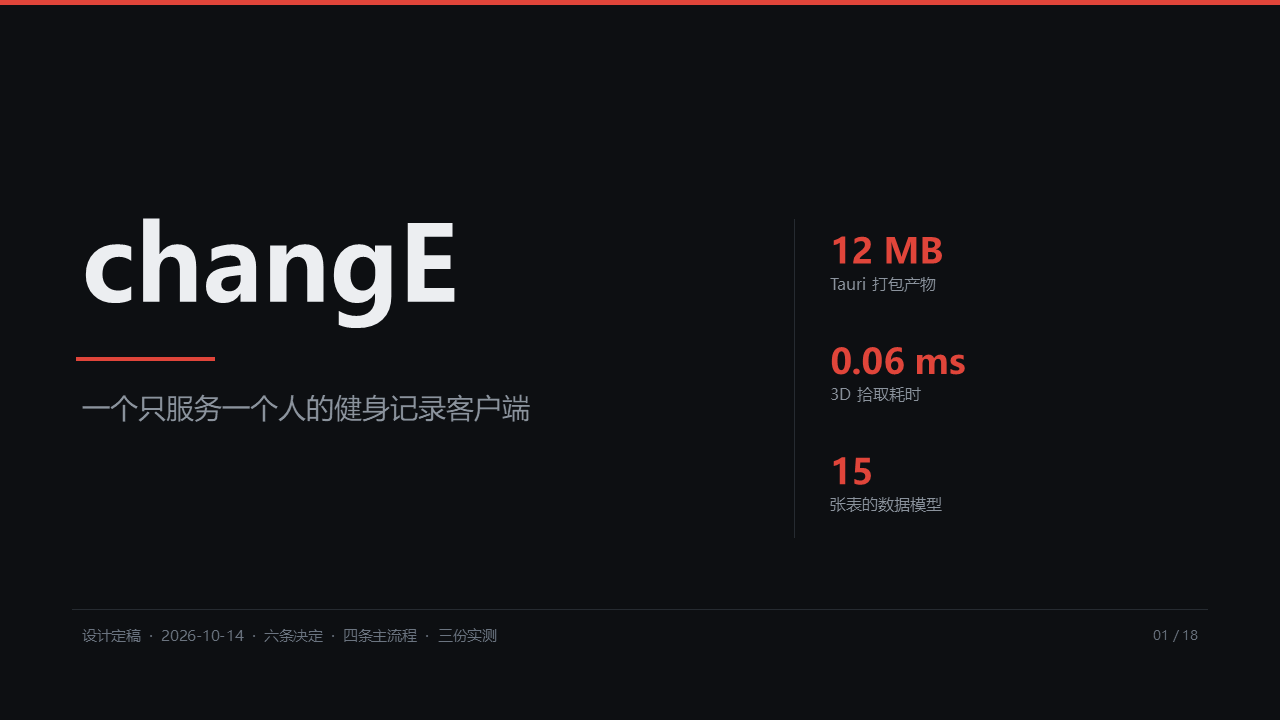
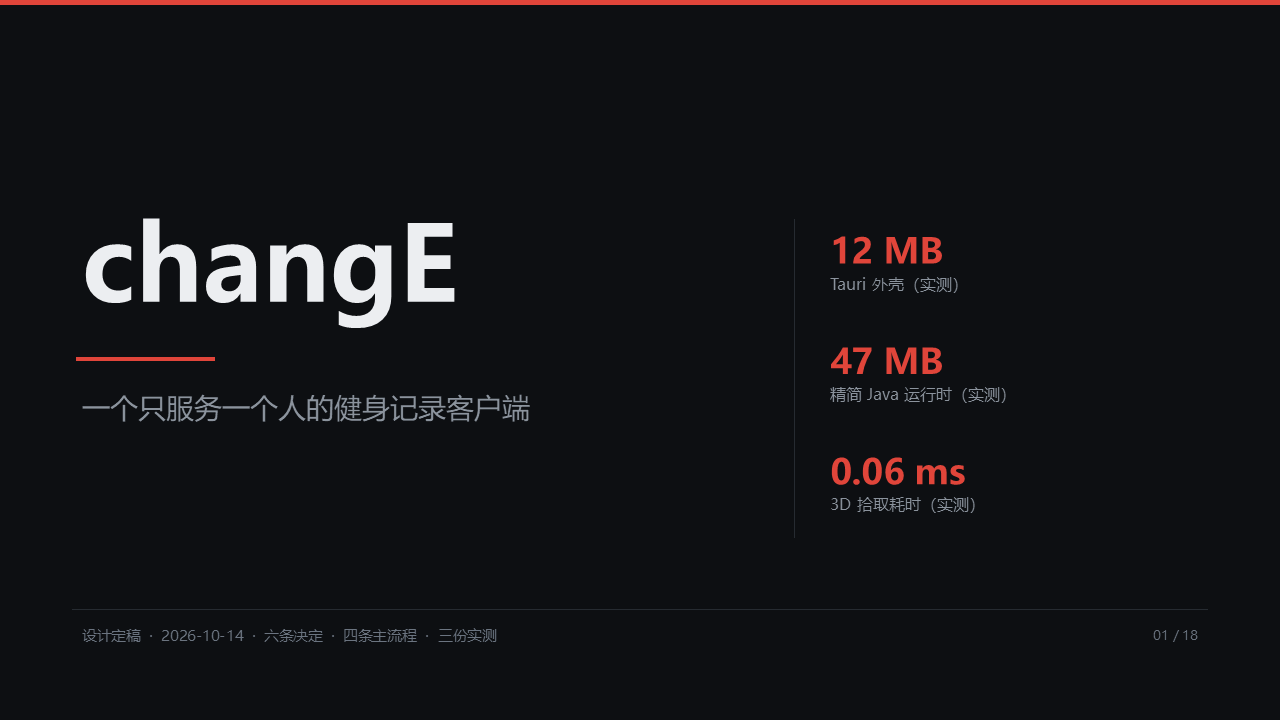
spec+deck: 记录「单用户可分发」决定，并更正安装包体积
用户决定：仍做只服务一个人的客户端，但要能发给朋友用，
不能只跑在自己电脑上。这与「多用户」是两回事——
每人跑自己的一份、各存各的数据，不需要账号与服务端。

spec 新增「分发形态」一节，列出五个连带影响：
1. 必须自带 Java 运行时（实测精简 JRE 47.4 MB）
2. 不得把模型 API Key 打进安装包
3. 数据目录不能写死
4. WebView2 在 Win10 上需兜底
5. 中国食物成分表转录版不可分发，须排除

并更正一个此前反复引用的数字：12 MB 只是 Tauri 外壳，
完整安装包预计 100-130 MB。风险清单增至 7 条。

deck 同步修订（v3）：封面数字全部改实测值、p16 拆开体积、
p17 加「朋友的电脑没有 JDK」并把末步改为「打包分发」。

Changed region(s): [[0.625, 0.4583, 0.7812, 0.5806], [0.625, 0.6111, 0.75, 0.7333], [0.6875, 0.3667, 0.75, 0.4278]]

diff --git a/ppt_tasks/change-design-deck/build.py b/ppt_tasks/change-design-deck/build.py
@@ -114,11 +114,11 @@ put(s, ML, 2.05, 11.0, 1.5, "changE", size=78, bold=True)
 rect(s, ML + 0.04, 3.72, 1.45, 0.045, C["accent"])
 put(s, ML, 4.02, 10.5, 0.6, "一个只服务一个人的健身记录客户端", size=21, color=C["muted"])
 
-# 右侧三条关键数字，给封面一个支点
+# 右侧三条关键数字，给封面一个支点（全部为实测值，不带估算）
 bx = 8.55
-for i, (num, lab) in enumerate([("12 MB", "Tauri 打包产物"),
-                                ("0.06 ms", "3D 拾取耗时"),
-                                ("15", "张表的数据模型")]):
+for i, (num, lab) in enumerate([("12 MB", "Tauri 外壳（实测）"),
+                                ("47 MB", "精简 Java 运行时（实测）"),
+                                ("0.06 ms", "3D 拾取耗时（实测）")]):
     yy = 2.35 + i * 1.15
     put(s, bx, yy, 4.0, 0.5, num, size=26, bold=True, color=C["accent"])
     put(s, bx, yy + 0.46, 4.0, 0.3, lab, size=12, color=C["muted"])
@@ -604,8 +604,8 @@ blocks = [
      [("Rust 工具链", "1.99.0"), ("MSVC 工具集", "14.44"), ("cargo 包缓存", "321 MB")],
      "国内源实测：USTC 3.4 MB/s；官方源仅 19 KB/s"),
     ("Tauri 冒烟测试", "全链路通过",
-     [("首次编译", "1.9 分钟"), ("产出 exe", "12 MB"), ("Electron 对比", "150 MB")],
-     "唯一仍需验证：JDK 25 与 Spring Boot 3.x 的版本搭配"),
+     [("首次编译", "1.9 分钟"), ("Tauri 外壳", "12 MB"), ("精简 JRE", "47 MB")],
+     "完整安装包预计 100–130 MB：外壳 + 自带 JRE + fat jar。仍小于 Electron 的 150 MB 起，但不是数量级差距"),
     ("3D 拾取基准", "240 条射线全命中",
      [("原生 Raycaster", "14.96 ms"), ("＋ MeshBVH", "0.203 ms"), ("合并 + BVH", "0.06 ms")],
      "模型：683 个独立命名 mesh，128 万三角形"),
@@ -639,21 +639,22 @@ risks = [
     ("Java 生态没有成熟可抄的健身项目", "中", "照 wger 思路用 Java 重写，正是学习价值"),
     ("LangChain4j 迭代极快", "中", "锁版本 + BOM；以英文文档为准"),
     ("拍照估热量不够准", "中", "定位为估算 + 一句话修正"),
+    ("朋友的电脑没有 JDK", "中", "自带 47 MB 精简 JRE；首次启动向导配数据目录与模型 key"),
     ("Redis 在虚拟机上，常关", "中", "无缓存是常态路径；超时压到 300 ms"),
-    ("CC BY-SA 的 ShareAlike 传染性", "中", "自用无碍；分发受限；界面必须署名"),
+    ("CC BY-SA 的 ShareAlike 传染性", "中", "自用无碍；一旦分发则整体须 CC BY-SA"),
 ]
 y = T_BODY + 0.05
 for r, level, fix in risks:
-    put(s, ML, y, 5.2, 0.28, r, size=11.5)
-    put(s, ML + 5.35, y, 0.7, 0.28, level, size=11.5,
+    put(s, ML, y, 5.2, 0.26, r, size=11.5)
+    put(s, ML + 5.35, y, 0.7, 0.26, level, size=11.5,
         bold=True, color=C["accent"] if level == "高" else C["muted"])
-    put(s, ML + 6.2, y, 5.6, 0.28, fix, size=11, color=C["faint"])
-    y += 0.42
-    rule(s, y - 0.13)
+    put(s, ML + 6.2, y, 5.6, 0.26, fix, size=11, color=C["faint"])
+    y += 0.36
+    rule(s, y - 0.11)
 # 两阶段
 eyebrow(s, ML, y + 0.10, "两阶段排期")
-ph = [("第一阶段 · 10 步", "最小骨架 → 数据层 → 动作库 → 训练 → 饮食 → 智能体 → 身体数据 → 人体图 2D → Redis 缓存 → 打包",
-       "做完就有个能天天用的东西", C["accent"]),
+ph = [("第一阶段 · 10 步", "最小骨架 → 数据层 → 动作库 → 训练 → 饮食 → 智能体 → 身体数据 → 人体图 2D → Redis 缓存 → 打包分发（自带 JRE）",
+       "能天天用，也能发给朋友", C["accent"]),
       ("第二阶段 · 8–14 人日", "模型管线 → 合并几何 + BVH 拾取 → 热力图着色 → Tauri 集成调优",
        "只替换渲染层，其余一律不动", C["muted"])]
 yy = y + 0.44

diff --git a/docs/superpowers/specs/2026-10-14-change-design.md b/docs/superpowers/specs/2026-10-14-change-design.md
@@ -44,7 +44,7 @@
 
 | 不做 | 理由 |
 |---|---|
-| **多用户 / 账号 / 权限 / 社交 / 排行榜** | **不在本阶段，但路径不堵死**。用户已明确：若自用感觉不错，可能推广给朋友——那属于**另一个产品形态**（需要服务端、托管、鉴权与移动端），不是加个 `user_id` 就完事。现在就为它做重准备会付出很大代价且大概率猜错；但有三件便宜的保险值得先做，见下节 |
+| **多用户 / 账号 / 权限 / 社交 / 排行榜** | **不做**。注意与「单用户可分发」区分：本项目**可以发给朋友用**，但每个人跑自己的一份、各存各的数据，**不是共用一个服务端**。真要做社交榜，那才是另一个产品形态（需要服务端、托管、鉴权），见下方「分发形态」一节 |
 | 云同步 / 服务端部署 | 数据全在本机；备份 = 复制一个文件 |
 | **手机 App（iOS/Android）** | **不在本阶段，但用户已明确：桌面版做出来后可能再做移动端**。因此界面按响应式写，不做只适配宽屏的布局；业务逻辑全部放在 Java 后台而不是前端，将来换壳代价最小 |
 | 微信小程序 | 注册审核流程长，自用无必要 |
@@ -66,6 +66,41 @@
 | 业务逻辑全部放 Java 后台，不在前端写 | 中 | 将来做移动端只需换壳；这也是「手机 App 后续可能做」的同一条保险 |
 
 **明确不做**：现在就在表里加 `user_id`。那是把一个不存在的需求固化进 schema，将来真做多用户时该改的还是要改。
+
+### 分发形态：单用户，但可分发（用户已确认）
+
+**这不是「多用户」。** 区别很关键：
+
+| | 多用户（多租户） | **单用户可分发（本项目的选择）** |
+|---|---|---|
+| 运行方式 | 一个服务端，多人共用 | **每人跑自己的一份** |
+| 数据 | 集中存服务端 | **各存各的机器** |
+| 账号 / 权限 | 必须有 | **不需要** |
+| 社交 / 排行榜 | 需要服务端 | **不做** |
+| 实现代价 | 另一个产品 | **只是打包问题** |
+
+用户原话：「就做只服务一个人的客户端，只是我推给朋友用，别人也能使用，不能只能跑在我的电脑上。」
+
+于是**「只有一个用户」这条立论完全不变**——每个安装实例仍然只服务一个人。变的只是：**它必须能装到别人的电脑上并独立运行。**
+
+#### 五个连带影响（都会在打包那一步集中爆发）
+
+1. **必须自带 Java 运行时。** 不能假设朋友装了 JDK。实测：`jpackage` / `jlink` 在 JDK 25 里都有；一个只含 Spring Boot + SQLite 所需模块的**精简运行时为 47.4 MB**。
+
+   > **这里要修正一个之前反复引用的数字**：那个「12 MB」是 **Tauri 外壳单独**的体积（冒烟测试产物）。加上精简 JRE 与 Spring Boot 的 fat jar，**完整安装包预计 100–130 MB**。这仍然小于 Electron（150 MB 起），但**不是 12 倍差距**——早说清楚比打包时才发现好。
+
+2. **不得把模型 API Key 打进安装包。** 那是项目所有者的额度，会被滥用。设计为：首次启动向导让使用者**填自己的 key**；不填则智能体功能禁用——本地记录完全不受影响（这正是「本地功能永不依赖网络」那条原则的又一次兑现）。
+
+3. **数据目录不能写死。** 开发机上用的是 `E:\`，但必须改为用户目录（`%APPDATA%\changE`）或首次启动时让用户选择。
+
+4. **WebView2 运行时。** Windows 11 自带；Windows 10 可能没有。Tauri 的 NSIS 安装器支持在安装时下载或内嵌 WebView2。
+
+5. **有一份数据不能随包分发。** 中国食物成分表的转录版**有版权、无开放许可，不可再分发**。分发版必须把它排除：随包只带 free-exercise-db（Unlicense）与手工补充的常吃项；使用者若需要中式食物库，由他自己导入。
+
+#### 顺带的两个结论
+
+- **Redis 的降级设计在这里又赚了一次。** 朋友大概率没有 Redis——而我们的设计里「无缓存」本来就是常态路径，所以**零适配成本**。
+- **Z-Anatomy 的 ShareAlike 在分发场景下变成硬约束**（第二阶段）。一旦这个 App 发给别人，整个作品须以 CC BY-SA 分发。做 3D 之前要重新确认一次。
 
 ### 外卖订单录入：不直连平台，走截图与文本
 
@@ -583,7 +618,11 @@ Java 后台（JDK 25 + Spring Boot 3.x）
 | 683 draw call 吃掉帧预算（第二阶段） | 中 | 必须合并几何；已实测合并 + BVH 后拾取 0.06 ms |
 | 照片隐私 | 中 | 身材照硬性不出网；模型接口单独成格，可一键关闭 |
 | Tauri 首次编译慢 | 低 | 已实测：约 400 个 crate，1.9 分钟 |
-| **Redis 在虚拟机上，而虚拟机经常是关的** | 中 | 把「无缓存」当常态路径设计：App 不依赖 Redis 启动；连接超时压到 300 ms + 失败熔断，避免每次操作卡 20 秒 |
+| **安装包体积远大于之前反复引用的 12 MB** | 中 | 12 MB 只是 Tauri 外壳；加上实测 47 MB 的精简 JRE 与 Spring Boot fat jar，完整包预计 100–130 MB。仍小于 Electron，但不是数量级差距 |
+| **中国食物成分表转录版不可分发** | 中 | 版权原因，分发版必须排除；改为使用者自行导入。随包只带 Unlicense 的 free-exercise-db |
+| **无法把模型 API Key 打进安装包** | 中 | 首次启动向导让使用者填自己的 key；不填则禁用智能体，本地记录不受影响 |
+| **朋友的电脑可能没有 WebView2** | 低 | Tauri 的 NSIS 安装器可内嵌或在安装时下载 |
+| Redis 在虚拟机上，而虚拟机经常是关的 | 中 | 把「无缓存」当常态路径设计：App 不依赖 Redis 启动；连接超时压到 300 ms + 失败熔断，避免每次操作卡 20 秒 |
 | 自用 API 成本 | 低 | DeepSeek 降价后自用月成本 < 1 元 |
 
 ---
@@ -603,7 +642,7 @@ Java 后台（JDK 25 + Spring Boot 3.x）
 | 7 | 身体数据与进步曲线 | — |
 | 8 | 人体图（2D 静态热力图 + 冻结契约） | 流程 ④ |
 | 9 | **Redis 缓存层** | `CacheService` 接口 + 两个实现；缓存容量统计与 1RM 序列 |
-| 10 | Tauri 打包 | 产出可分发的 exe |
+| 10 | Tauri 打包与分发 | **自带精简 JRE（47 MB）+ 首次启动向导（数据目录、模型 key）+ WebView2 兜底**；产出可发给朋友的安装包 |
 
 **阶段结束的标志**：能天天用，且 3D 的所有前置依赖（动作库、肌群映射、容量接口）都已就位。
 

diff --git a/ppt_tasks/change-design-deck/visual-review.md b/ppt_tasks/change-design-deck/visual-review.md
@@ -40,6 +40,15 @@ Result: **PASS**
 |---|---|---|---|
 | v1 | 首轮生成并渲染 18 页 | — | 4 项 MUST 级缺陷（D1–D4）+ 3 项 NEEDS_REVISION |
 | v2 | 修复 D1–D4，优化 D5–D7 | 局部缺陷（构图与坐标），非方向性失败 | 重渲染后逐页复核，18/18 PASS |
+| v3 | 按「单用户可分发」决定修订：封面三条数字全部改为实测值（12 MB 外壳 / 47 MB 精简 JRE / 0.06 ms）；p16 补「完整包预计 100–130 MB」并去掉易误读的 Electron 对比行；p17 风险增至 7 条（新增「朋友的电脑没有 JDK」），第一阶段末步改为「打包分发（自带 JRE）」 | 事实性更正（原 12 MB 仅为外壳体积，易被误读为整个安装包） | 重渲染并复核 p01 / p16 / p17，PASS；其余 15 页未改动 |
+
+### v3 复核记录（2026-10-14）
+
+| 页 | 核对点 | 结果 |
+|---|---|---|
+| 01 | 三条数字是否均为实测且标注清楚 | PASS（均标「实测」） |
+| 16 | 是否误读为整个安装包只有 12 MB | PASS（已拆成「Tauri 外壳 12 MB」与「精简 JRE 47 MB」两行，并在注释中给出完整包区间） |
+| 17 | 风险行数与副标题是否一致；新增行是否超出版心 | PASS（7 条，末行未越过页脚线） |
 
 ## 未解决项
 
